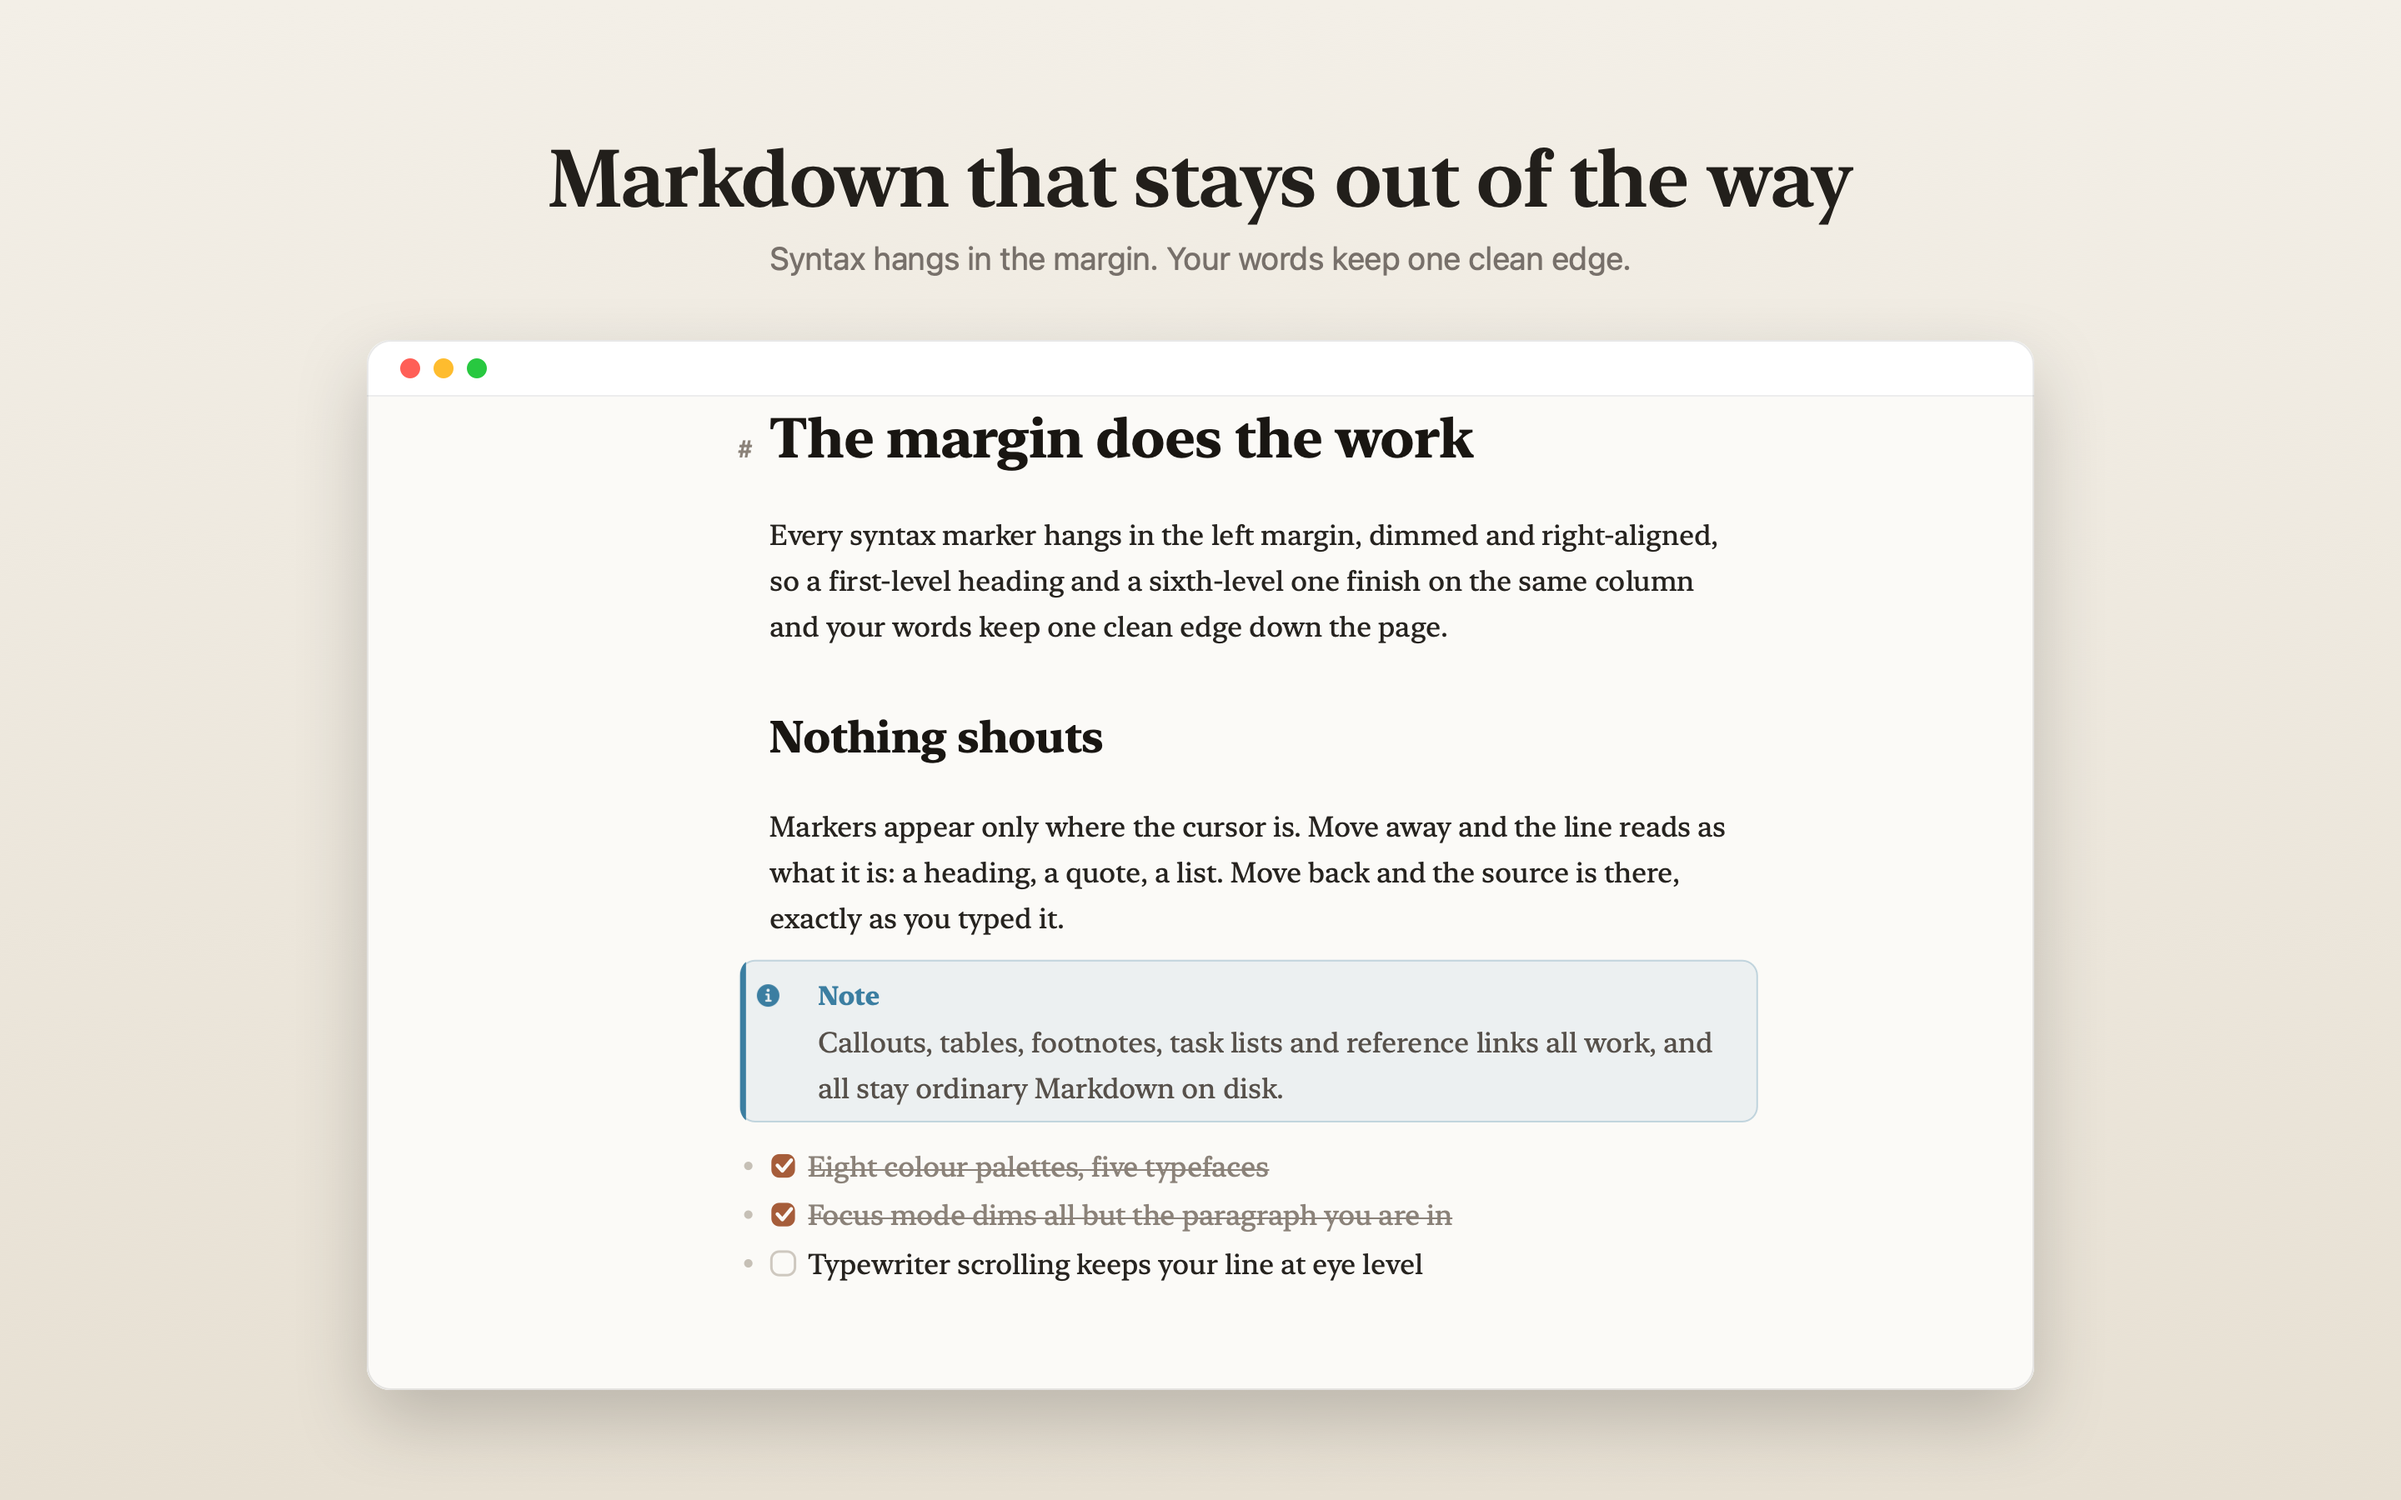
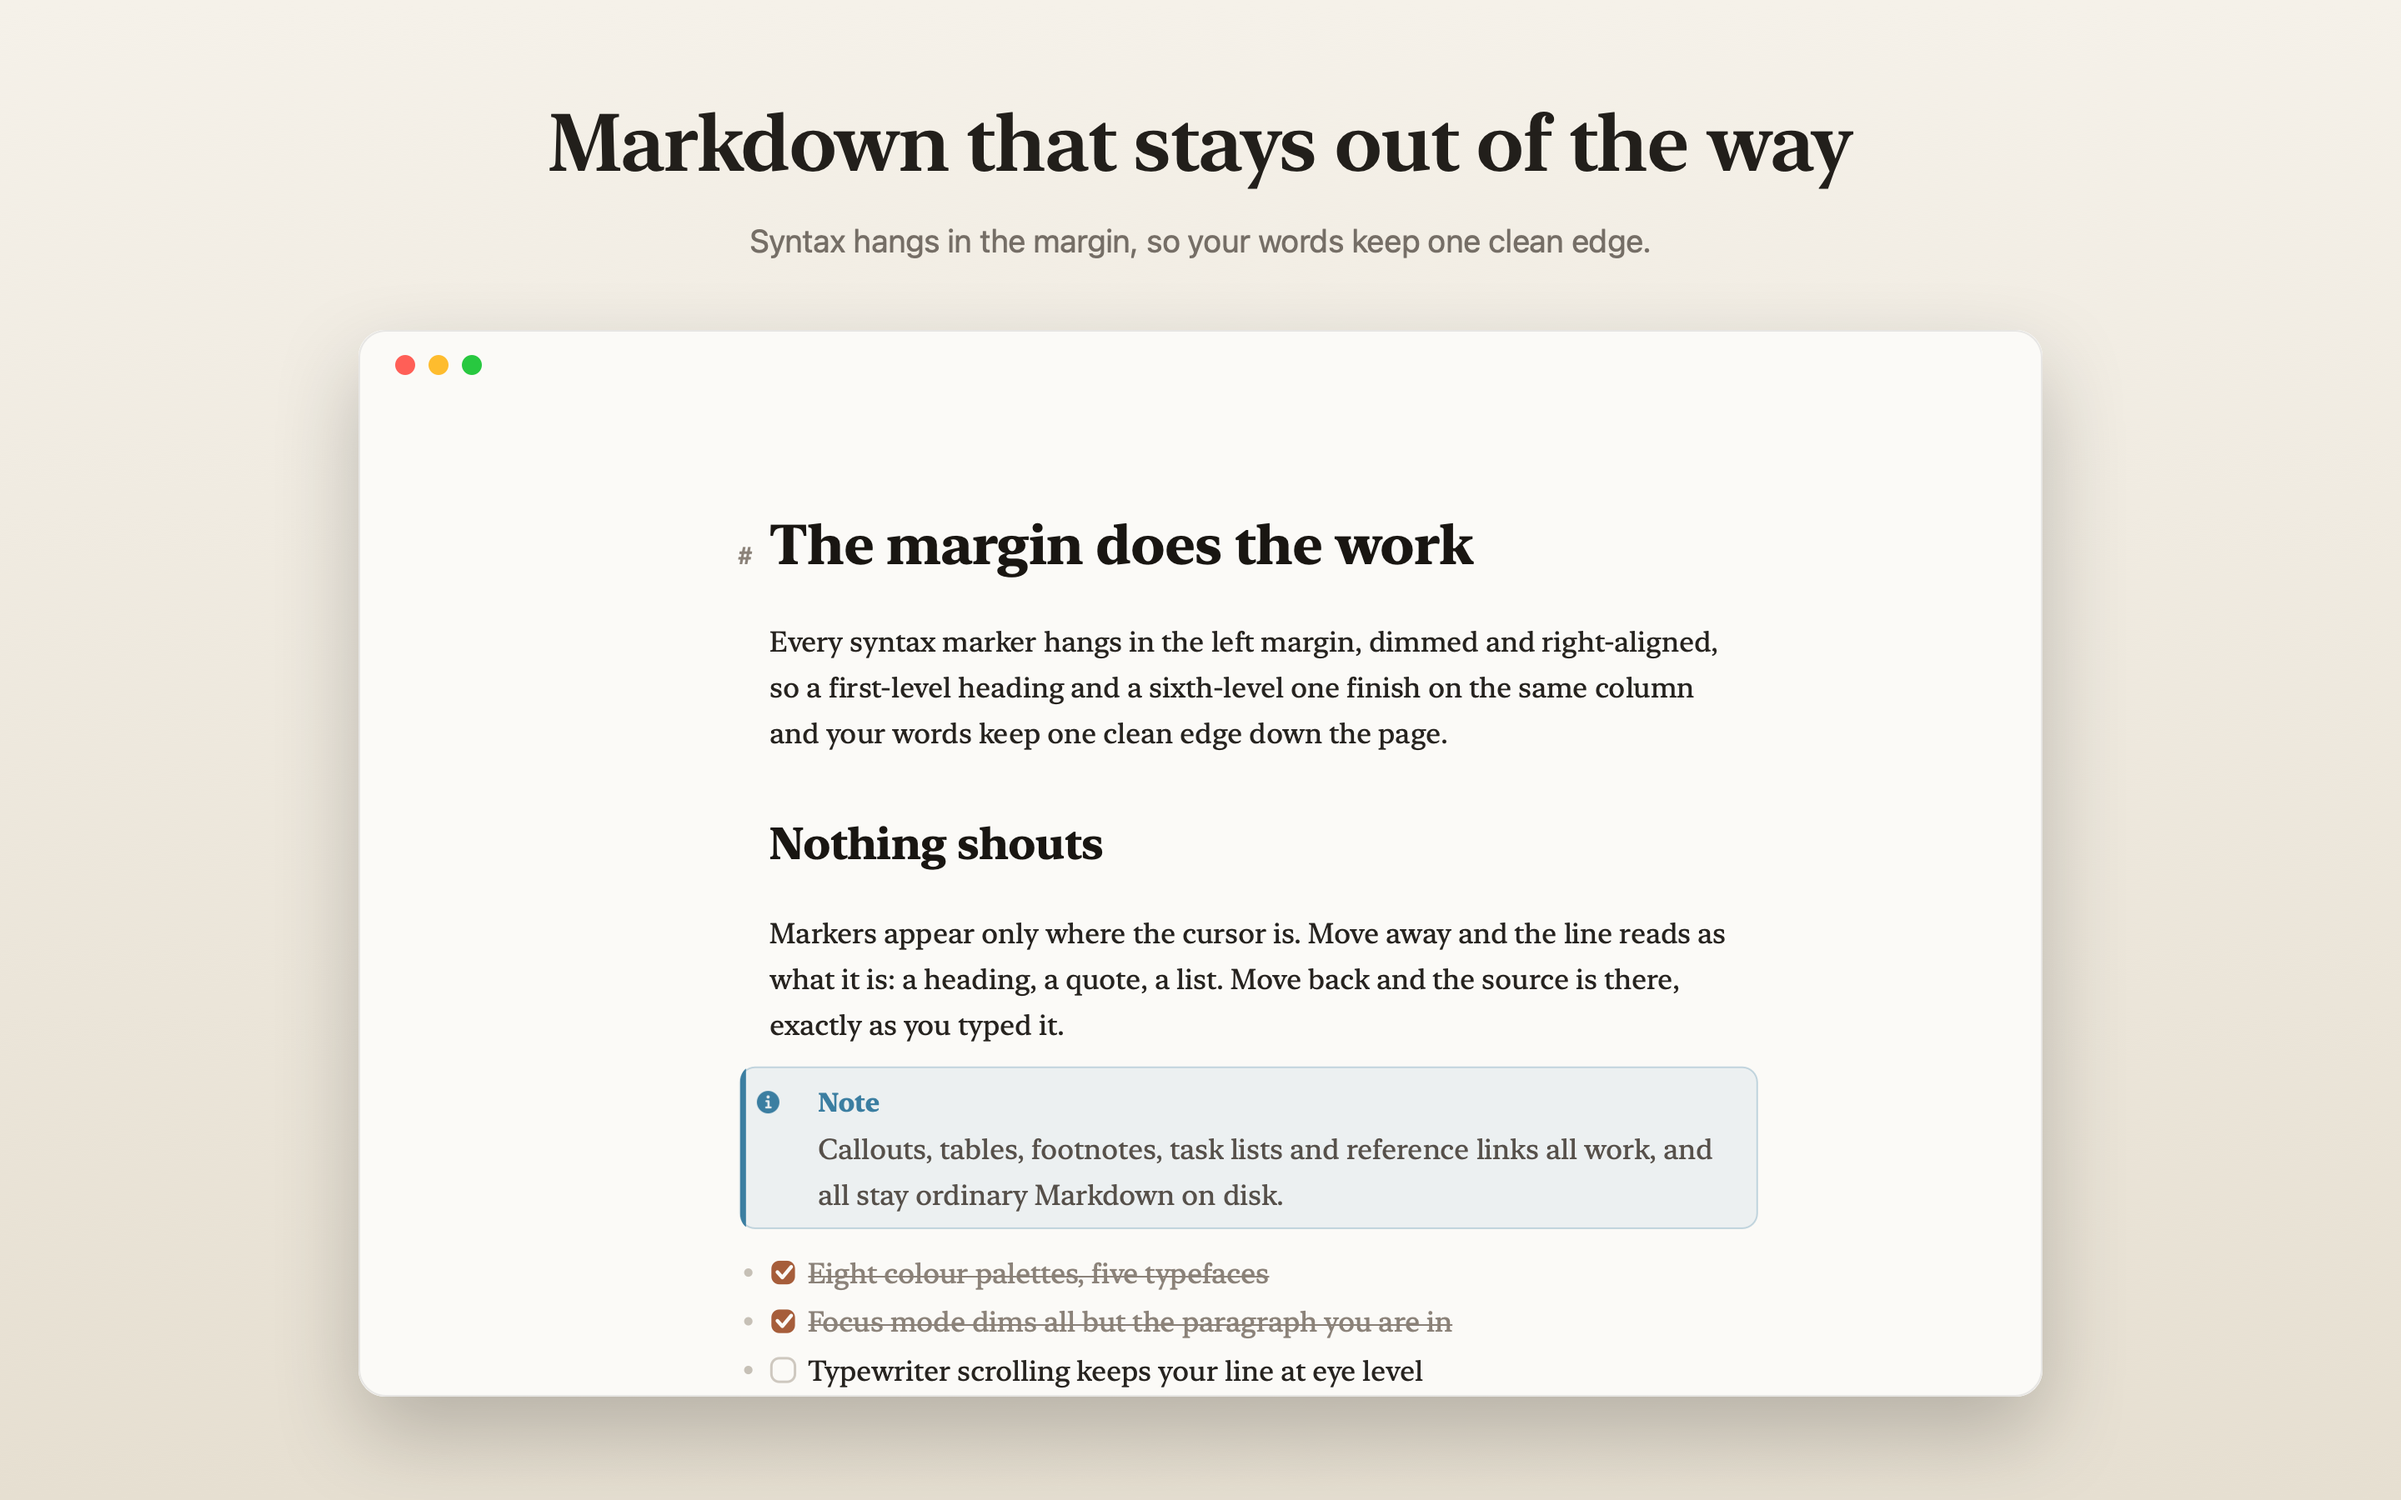
Compose the screenshots like the app, not like a mockup
The window had a grey title bar with a hairline under it. Signet has no title
bar: the content view is full size and the bar is transparent, so the page runs
right up under the traffic lights. The page fills the whole window now and the
lights sit in the margin the page already leaves, which is what the app looks
like.

The three shots also stopped being three of the same picture. One is centred
with the words above it; one runs off the right edge with the words down the
left; one runs off the left with the words down the right. Same window, same
type, same ground, different framing.

package.sh no longer promises an upload it cannot perform. Neither altool nor
Transporter is installed here, and altool ships with Xcode rather than the
Command Line Tools, so the script looks for whichever is present and says which
to install when neither is.

diff --git a/scripts/make-shot.swift b/scripts/make-shot.swift
@@ -1,24 +1,33 @@
 import AppKit
 
-// Composes an App Store screenshot: a headline, and the rendered page inside a
-// window that looks like a window.
+// Composes an App Store screenshot: some words, and the rendered page inside a
+// window drawn to look like the real one.
 //
-//   swift scripts/make-shot.swift out.png page.png "Headline" "Sub line" light
+//   swift scripts/make-shot.swift out.png page.png layout light|dark "Headline" "Sub line"
 //
-// The page image is whatever `--render` produced. Everything else is drawn here,
-// because the real window's chrome is glass and glass renders as nothing when it
-// is not on a screen.
+//   layout: centre | right | left
+//     centre  window in the middle, words above it
+//     right   window running off the right edge, words down the left
+//     left    window running off the left edge, words down the right
+//
+// Signet's window has no title bar: the content view is full size and the bar is
+// transparent, so the page runs right up under the traffic lights. Drawing a
+// grey strip across the top, which is what a generic mockup does, would show
+// something the app does not have. The page fills the whole window here and the
+// lights sit on top of it, in the margin the page already leaves.
 
 let arguments = CommandLine.arguments
-guard arguments.count >= 6 else {
-    FileHandle.standardError.write(Data("usage: make-shot.swift out.png page.png headline subline light|dark\n".utf8))
+guard arguments.count >= 7 else {
+    FileHandle.standardError.write(Data(
+        "usage: make-shot.swift out.png page.png centre|right|left light|dark headline subline\n".utf8))
     exit(2)
 }
 let output = arguments[1]
 let pagePath = arguments[2]
-let headline = arguments[3]
-let subline = arguments[4]
-let dark = arguments[5] == "dark"
+let layout = arguments[3]
+let dark = arguments[4] == "dark"
+let headline = arguments[5]
+let subline = arguments[6]
 
 // Apple takes 2880x1800 for macOS. Everything below is in points at half that.
 let scale: CGFloat = 2
@@ -34,14 +43,42 @@ func colour(_ hex: String) -> NSColor {
         alpha: 1)
 }
 
-let ink = dark ? colour("#F2EFE9") : colour("#221F1B")
-let quiet = dark ? colour("#9A948A") : colour("#77706A")
-let top = dark ? colour("#15171A") : colour("#F3EFE7")
-let bottom = dark ? colour("#0C0D0F") : colour("#E7E0D3")
+let ink = dark ? colour("#F4F1EB") : colour("#221F1B")
+let quiet = dark ? colour("#9C958A") : colour("#756E66")
+let top = dark ? colour("#16181C") : colour("#F5F1E9")
+let bottom = dark ? colour("#0B0C0E") : colour("#E6DFD1")
 
 guard let page = NSImage(contentsOfFile: pagePath) else {
     FileHandle.standardError.write(Data("cannot read \(pagePath)\n".utf8))
     exit(1)
+}
+
+/// Where the window sits, and where the words sit, for each layout. The window
+/// is allowed to run off the canvas: a page half out of frame reads as a page
+/// that continues, which a neatly centred rectangle does not.
+struct Plan {
+    let card: NSRect
+    let text: NSRect
+    let centred: Bool
+}
+
+let plan: Plan
+switch layout {
+case "right":
+    plan = Plan(
+        card: NSRect(x: 545, y: 96, width: 1010, height: 708),
+        text: NSRect(x: 96, y: 360, width: 400, height: 220),
+        centred: false)
+case "left":
+    plan = Plan(
+        card: NSRect(x: -115, y: 96, width: 1010, height: 708),
+        text: NSRect(x: 944, y: 360, width: 400, height: 220),
+        centred: false)
+default:
+    plan = Plan(
+        card: NSRect(x: 215, y: 62, width: 1010, height: 640),
+        text: NSRect(x: 120, y: 726, width: size.width - 240, height: 120),
+        centred: true)
 }
 
 guard let rep = NSBitmapImageRep(
@@ -59,9 +96,45 @@ NSGraphicsContext.current = NSGraphicsContext(bitmapImageRep: rep)
 NSGradient(starting: top, ending: bottom)?
     .draw(in: NSRect(origin: .zero, size: size), angle: -90)
 
+// --- The window -----------------------------------------------------------
+let radius: CGFloat = 16
+let frame = NSBezierPath(roundedRect: plan.card, xRadius: radius, yRadius: radius)
+
+if let context = NSGraphicsContext.current?.cgContext {
+    context.saveGState()
+    context.setShadow(
+        offset: CGSize(width: 0, height: -22), blur: 54,
+        color: NSColor.black.withAlphaComponent(dark ? 0.6 : 0.22).cgColor)
+    (dark ? colour("#17191D") : NSColor.white).setFill()
+    frame.fill()
+    context.restoreGState()
+}
+
+// The page fills the window. No title bar: there isn't one in the app.
+NSGraphicsContext.saveGraphicsState()
+frame.addClip()
+page.draw(in: plan.card, from: .zero, operation: .sourceOver, fraction: 1,
+          respectFlipped: true, hints: [.interpolation: NSImageInterpolation.high])
+NSGraphicsContext.restoreGraphicsState()
+
+// Traffic lights, sitting in the margin the page already leaves at the top.
+for (index, light) in [colour("#FF5F57"), colour("#FEBC2E"), colour("#28C840")].enumerated() {
+    light.setFill()
+    NSBezierPath(ovalIn: NSRect(
+        x: plan.card.minX + 22 + CGFloat(index) * 20,
+        y: plan.card.maxY - 27, width: 12, height: 12)).fill()
+}
+
+// A hairline, so the window reads as an object rather than a hole.
+(dark ? NSColor.white.withAlphaComponent(0.11) : NSColor.black.withAlphaComponent(0.08)).setStroke()
+let edge = NSBezierPath(roundedRect: plan.card.insetBy(dx: 0.5, dy: 0.5),
+                        xRadius: radius, yRadius: radius)
+edge.lineWidth = 1
+edge.stroke()
+
 // --- Words ----------------------------------------------------------------
-// The same system families the app itself resolves, so the words around the
-// window are set in the typeface the window is showing off.
+// The system families the app itself resolves, so the words around the window
+// are set in the face the window is showing off.
 func font(_ design: NSFontDescriptor.SystemDesign, _ points: CGFloat,
           _ weight: NSFont.Weight) -> NSFont {
     let base = NSFont.systemFont(ofSize: points, weight: weight)
@@ -69,60 +142,40 @@ func font(_ design: NSFontDescriptor.SystemDesign, _ points: CGFloat,
     return NSFont(descriptor: designed, size: points) ?? base
 }
 
-let title = NSMutableParagraphStyle()
-title.alignment = .center
-let headlineFont = font(.serif, 48, .semibold)
-(headline as NSString).draw(
-    in: NSRect(x: 100, y: 762, width: size.width - 200, height: 60),
-    withAttributes: [.font: headlineFont, .foregroundColor: ink, .paragraphStyle: title])
-(subline as NSString).draw(
-    in: NSRect(x: 200, y: 726, width: size.width - 400, height: 30),
-    withAttributes: [
-        .font: font(.default, 19, .regular),
-        .foregroundColor: quiet, .paragraphStyle: title,
-    ])
+let paragraph = NSMutableParagraphStyle()
+paragraph.alignment = plan.centred ? .center : .natural
+paragraph.lineHeightMultiple = 1.04
 
-// --- The window -----------------------------------------------------------
-let card = NSRect(x: 220, y: 66, width: size.width - 440, height: 630)
-let radius: CGFloat = 14
-let bar: CGFloat = 34
+let headlineFont = font(.serif, plan.centred ? 48 : 44, .semibold)
+let headlineText = NSAttributedString(string: headline, attributes: [
+    .font: headlineFont, .foregroundColor: ink, .paragraphStyle: paragraph,
+])
+let headlineHeight = headlineText.boundingRect(
+    with: NSSize(width: plan.text.width, height: 400),
+    options: [.usesLineFragmentOrigin]).height
 
-if let context = NSGraphicsContext.current?.cgContext {
-    context.saveGState()
-    context.setShadow(
-        offset: CGSize(width: 0, height: -18), blur: 46,
-        color: NSColor.black.withAlphaComponent(dark ? 0.55 : 0.2).cgColor)
-    (dark ? colour("#191B1F") : NSColor.white).setFill()
-    NSBezierPath(roundedRect: card, xRadius: radius, yRadius: radius).fill()
-    context.restoreGState()
-}
+let sublineParagraph = NSMutableParagraphStyle()
+sublineParagraph.alignment = paragraph.alignment
+sublineParagraph.lineHeightMultiple = 1.22
+let sublineText = NSAttributedString(string: subline, attributes: [
+    .font: font(.default, plan.centred ? 19 : 18, .regular),
+    .foregroundColor: quiet, .paragraphStyle: sublineParagraph,
+])
+let sublineHeight = sublineText.boundingRect(
+    with: NSSize(width: plan.text.width, height: 400),
+    options: [.usesLineFragmentOrigin]).height
 
-// The page, clipped to the window below its title bar.
-let inner = NSRect(x: card.minX, y: card.minY,
-                   width: card.width, height: card.height - bar)
-NSGraphicsContext.saveGraphicsState()
-NSBezierPath(roundedRect: card, xRadius: radius, yRadius: radius).addClip()
-page.draw(in: inner, from: .zero, operation: .sourceOver, fraction: 1,
-          respectFlipped: true, hints: [.interpolation: NSImageInterpolation.high])
-NSGraphicsContext.restoreGraphicsState()
-
-// Traffic lights, and a hairline under the bar.
-let lights = [colour("#FF5F57"), colour("#FEBC2E"), colour("#28C840")]
-for (index, light) in lights.enumerated() {
-    light.setFill()
-    NSBezierPath(ovalIn: NSRect(
-        x: card.minX + 20 + CGFloat(index) * 20,
-        y: card.maxY - bar / 2 - 6, width: 12, height: 12)).fill()
-}
-(dark ? NSColor.white.withAlphaComponent(0.08) : NSColor.black.withAlphaComponent(0.07)).setFill()
-NSRect(x: card.minX, y: card.maxY - bar, width: card.width, height: 1).fill()
-
-// A hairline around the whole window, so it reads as an object on the page.
-(dark ? NSColor.white.withAlphaComponent(0.12) : NSColor.black.withAlphaComponent(0.09)).setStroke()
-let edge = NSBezierPath(roundedRect: card.insetBy(dx: 0.5, dy: 0.5),
-                        xRadius: radius, yRadius: radius)
-edge.lineWidth = 1
-edge.stroke()
+// Stacked from the top of the text box, so a two-line headline pushes the
+// sub line down instead of overlapping it.
+let gap: CGFloat = 14
+headlineText.draw(with: NSRect(
+    x: plan.text.minX, y: plan.text.maxY - headlineHeight,
+    width: plan.text.width, height: headlineHeight),
+    options: [.usesLineFragmentOrigin])
+sublineText.draw(with: NSRect(
+    x: plan.text.minX, y: plan.text.maxY - headlineHeight - gap - sublineHeight,
+    width: plan.text.width, height: sublineHeight),
+    options: [.usesLineFragmentOrigin])
 
 NSGraphicsContext.restoreGraphicsState()
 
